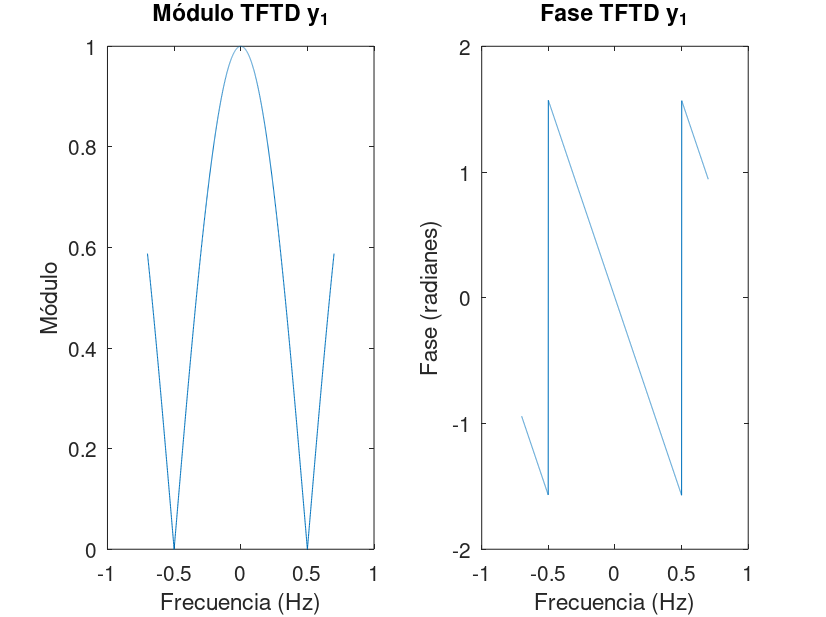
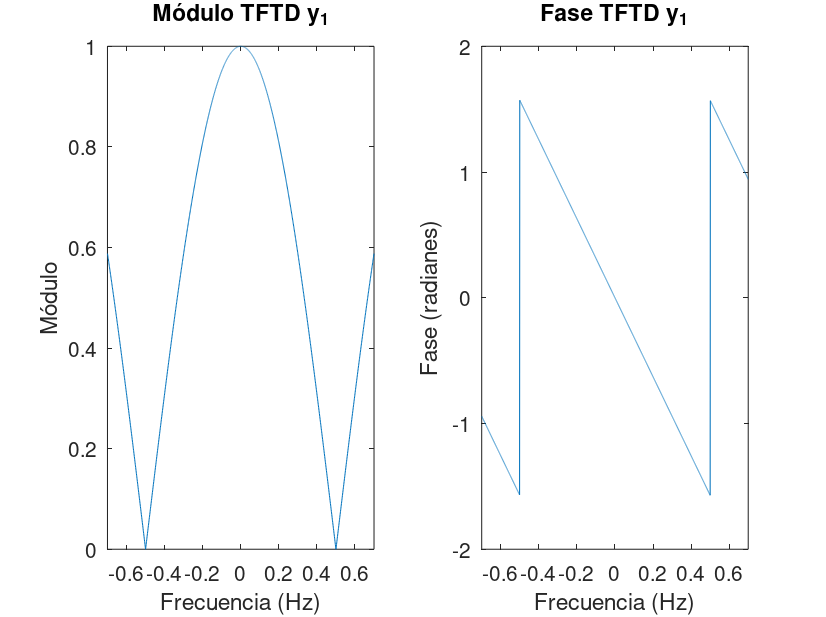
ej1 terminado

diff --git a/ejercicio 1/grafico_comprobacion.m b/ejercicio 1/grafico_comprobacion.m
@@ -43,68 +43,77 @@ print -f1 -dpng img/comprobacion_impulsional_S4;
 clf;
 
 % Respuesta en frecuencia del sistema S1
-[s,X]=TFTD(n,sistema_S1(d));
+s = [-0.7:0.001:0.7];
+X = TFTD(n,sistema_S1(d),s);
 % Módulo de la TFTD
 subplot(1, 2, 1);
 plot(s, abs(X));
 xlabel('Frecuencia (Hz)');
+xlim([-0.7 0.7]);
 ylabel('Módulo');
 title('Módulo TFTD y_1');
 % Fase de la TFTD
 subplot(1, 2, 2);
 plot(s, angle(X));
 xlabel('Frecuencia (Hz)');
+xlim([-0.7 0.7]);
 ylabel('Fase (radianes)');
 title('Fase TFTD y_1');
 print -f1 -dpng img/comprobacion_frecuencia_S1;
 clf;
 
 % Respuesta en frecuencia del sistema S2
-[s,X]=TFTD(n,sistema_S2(d));
+X = TFTD(n,sistema_S2(d),s);
 % Módulo de la TFTD
 subplot(1, 2, 1);
 plot(s, abs(X));
 xlabel('Frecuencia (Hz)');
+xlim([-0.7 0.7]);
 ylabel('Módulo');
 title('Módulo TFTD y_2');
 % Fase de la TFTD
 subplot(1, 2, 2);
 plot(s, angle(X));
 xlabel('Frecuencia (Hz)');
+xlim([-0.7 0.7]);
 ylabel('Fase (radianes)');
 title('Fase TFTD y_2');
 print -f1 -dpng img/comprobacion_frecuencia_S2;
 clf;
 
 % Respuesta en frecuencia del sistema S3
-[s,X]=TFTD(n,sistema_S3(d));
+X = TFTD(n,sistema_S3(d),s);
 % Módulo de la TFTD
 subplot(1, 2, 1);
 plot(s, abs(X));
 xlabel('Frecuencia (Hz)');
+xlim([-0.7 0.7]);
 ylabel('Módulo');
 title('Módulo TFTD y_3');
 % Fase de la TFTD
 subplot(1, 2, 2);;
 plot(s, angle(X));
 xlabel('Frecuencia (Hz)');
+xlim([-0.7 0.7]);
 ylabel('Fase (radianes)');
 title('Fase TFTD y_3');
 print -f1 -dpng img/comprobacion_frecuencia_S3;
 clf;
 
 % Respuesta en frecuencia del sistema S4
-[s,X]=TFTD(n,sistema_S4(d));
+X = TFTD(n,sistema_S4(d),s);
 % Módulo de la TFTD
 subplot(1, 2, 1);
 plot(s, abs(X));
 xlabel('Frecuencia (Hz)');
+xlim([-0.7 0.7]);
 ylabel('Módulo');
 title('Módulo TFTD y_3');
 % Fase de la TFTD
 subplot(1, 2, 2);
 plot(s, angle(X));
 xlabel('Frecuencia (Hz)');
+xlim([-0.7 0.7]);
 ylabel('Fase (radianes)');
 title('Fase TFTD y_4');
 print -f1 -dpng img/comprobacion_frecuencia_S4;

diff --git a/ejercicio 1/grafico_TFTD_salidas_sistemas.m b/ejercicio 1/grafico_TFTD_salidas_sistemas.m
@@ -1,0 +1,90 @@
+% TFTD de las salidas de los sistemas a la señal "senial"
+
+[n,x]=senial(020312);
+s = [-0.5:0.001:0.5];
+
+% TFTD S1 Modulo
+subplot(1,2,1);
+plot(s, abs(TFTD(n,sistema_S1(x),s)));
+xlabel('Frecuencia (f)');
+xlim([-0.5 0.5]);
+ylabel('Amplitud');
+grid on;
+title('Modulo TFTD S1(x)');
+legend('Y_1[n]');
+% TFTD S1 Fase
+subplot(1,2,2);
+plot(s, angle(TFTD(n,sistema_S1(x),s)));
+xlabel('Frecuencia (f)');
+xlim([-0.5 0.5]);
+ylabel('Fase (radianes)');
+grid on;
+title('Fase TFTD S1(x)');
+legend('Y_1[n]');
+print -f1 -dpng img/TFTD_salida_S1;
+
+clf;
+
+% TFTD S2 Modulo
+subplot(1,2,1);
+plot(s, abs(TFTD(n,sistema_S2(x),s)));
+xlabel('Frecuencia (f)');
+xlim([-0.5 0.5]);
+ylabel('Amplitud');
+grid on;
+title('Modulo TFTD S2(x)');
+legend('Y_2[n]');
+% TFTD S2 Fase
+subplot(1,2,2);
+plot(s, angle(TFTD(n,sistema_S2(x),s)));
+xlabel('Frecuencia (f)');
+xlim([-0.5 0.5]);
+ylabel('Fase (radianes)');
+grid on;
+title('Fase TFTD S2(x)');
+legend('Y_2[n]');
+print -f1 -dpng img/TFTD_salida_S2;
+
+clf;
+
+% TFTD S3 Modulo
+subplot(1,2,1);
+plot(s, abs(TFTD(n,sistema_S3(x),s)));
+xlabel('Frecuencia (f)');
+xlim([-0.5 0.5]);
+ylabel('Amplitud');
+grid on;
+title('Modulo TFTD S3(x)');
+legend('Y_3[n]');
+% TFTD S3 Fase
+subplot(1,2,2);
+plot(s, angle(TFTD(n,sistema_S3(x),s)));
+xlabel('Frecuencia (f)');
+xlim([-0.5 0.5]);
+ylabel('Fase (radianes)');
+grid on;
+title('Fase TFTD S3(x)');
+legend('Y_3[n]');
+print -f1 -dpng img/TFTD_salida_S3;
+
+clf;
+
+% TFTD S4 Modulo
+subplot(1,2,1);
+plot(s, abs(TFTD(n,sistema_S4(x),s)));
+xlabel('Frecuencia (f)');
+xlim([-0.5 0.5]);
+ylabel('Amplitud');
+grid on;
+title('Modulo TFTD S4(x)');
+legend('Y_4[n]');
+% TFTD S4 Fase
+subplot(1,2,2);
+plot(s, angle(TFTD(n,sistema_S4(x),s)));
+xlabel('Frecuencia (f)');
+xlim([-0.5 0.5]);
+ylabel('Fase (radianes)');
+grid on;
+title('Fase TFTD S4(x)');
+legend('Y_4[n]');
+print -f1 -dpng img/TFTD_salida_S4;

diff --git a/ejercicio 1/grafico_salidas_sistemas.m b/ejercicio 1/grafico_salidas_sistemas.m
@@ -1,0 +1,39 @@
+% Graficar las salidas de los sistemas a la señal "senial"
+
+[n,x]=senial(020312);
+
+% Salida para S1
+stem(n, sistema_S1(x), 'filled');
+xlabel('Instante (n)');
+ylabel('Amplitud (x)');
+grid on;
+title('Salida de S1');
+legend('y_1[n]');
+print -f1 -dpng img/salida_S1;
+
+% Salida para S2
+stem(n, sistema_S2(x), 'filled');
+xlabel('Instante (n)');
+ylabel('Amplitud (x)');
+grid on;
+title('Salida de S2');
+legend('y_2[n]');
+print -f1 -dpng img/salida_S2;
+
+% Salida para S3
+stem(n, sistema_S3(x), 'filled');
+xlabel('Instante (n)');
+ylabel('Amplitud (x)');
+grid on;
+title('Salida de S3');
+legend('y_3[n]');
+print -f1 -dpng img/salida_S3;
+
+% Salida para S4
+stem(n, sistema_S4(x), 'filled');
+xlabel('Instante (n)');
+ylabel('Amplitud (x)');
+grid on;
+title('Salida de S4');
+legend('y_4[n]');
+print -f1 -dpng img/salida_S4;

diff --git a/ejercicio 1/grafico_senial.m b/ejercicio 1/grafico_senial.m
@@ -13,7 +13,8 @@ legend('senial.m'); % Agrega una leyenda
 print -f1 -dpng img/senial % Importar figura
 
 % Calcular la TFTD
-[s,X] = TFTD(n,x);
+s = [-0.5:0.001:0.5];
+X = TFTD(n,x,s);
 
 % Graficar el módulo de la TFTD
 subplot(2, 1, 1);

diff --git a/ejercicio 1/TFTD.m b/ejercicio 1/TFTD.m
@@ -1,5 +1,5 @@
-function [s,X] = TFTD(n,x);
-  ds = 0.001; s = [-0.7:ds:0.7]; X = zeros(size(s));
+function [X] = TFTD(n,x,s);
+  X = zeros(size(s));
   for k = 1:length(s)
     X(k)=sum(x.*exp(-1i*2*pi*s(k)*n));
   end
